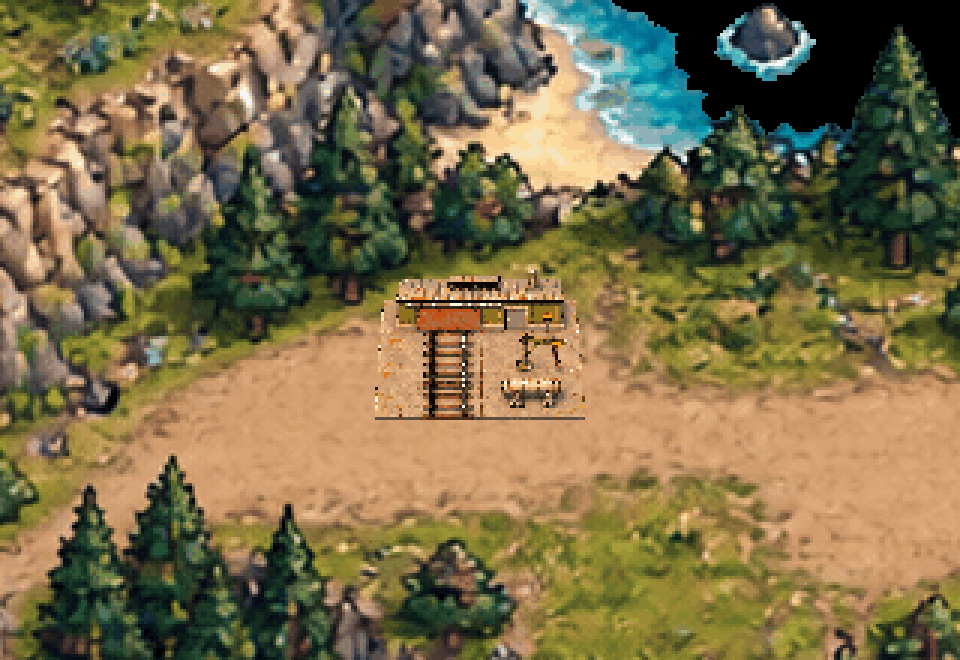
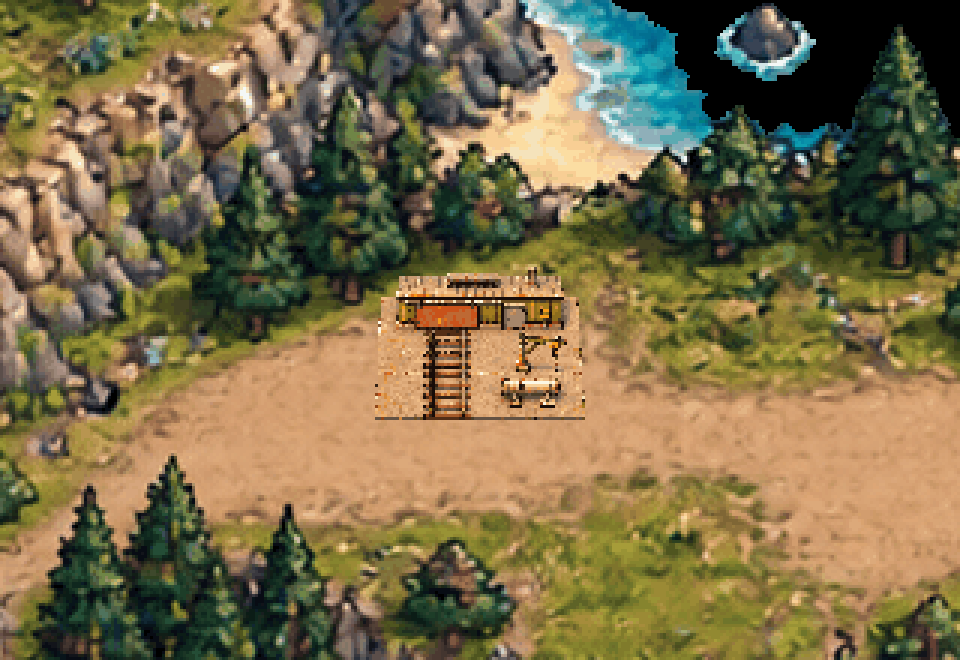
E0: цех по попытке 5 (кромка плиты 0,941 в пороге), терминал остаётся на попытке 4
Попытка 6 терминала отклонена: высокие А-опоры и сине-серая сталь вне палитры E0.

Changed region(s): [[0.375, 0.3939, 0.625, 0.6364]]

diff --git a/art/docs/E0_REWORK_TRACKER_20261107.md b/art/docs/E0_REWORK_TRACKER_20261107.md
@@ -28,8 +28,10 @@
[9 lines of base64/hex data omitted]
 
 ## Что узнано о процессе
@@ -49,7 +51,7 @@
 | ID | Файл `art/gen/placeables/base/…/e0_1978.png` SHA-256 | Runtime-обрезка SHA-256 | Видимая область |
 | --- | --- | --- | --- |
[5 lines of base64/hex data omitted]
 

diff --git a/art/review/e0_rework_20261107/README.md b/art/review/e0_rework_20261107/README.md
@@ -7,7 +7,7 @@
 | Файл | SHA-256 | Дальняя/ближняя кромка плиты (порог 0,94–0,99) | Глубина/ширина (схема) | Отклонения, о которых решает владелец |
 | --- | --- | --- | --- | --- |
[5 lines of base64/hex data omitted]
 
@@ -18,7 +18,8 @@
 | Drive file ID | Имя на Drive | Байт | Роль |
 | --- | --- | --- | --- |
 | `1IbDo3UXGBITJ2x-AVt0vb0BkahXZNTEg` | `BI-CONTROL_E0_1978_rework_a03_d4c1345e.png` | 1965208 | выбран |
-| `1Ky4bMncsvW_soRxmMaoQON03YA6rMK_k` | `BI-FACTORY_E0_1978_rework_a04_5709f4d8.png` | 2017061 | выбран |
+| `1Ky4bMncsvW_soRxmMaoQON03YA6rMK_k` | `BI-FACTORY_E0_1978_rework_a04_5709f4d8.png` | 2017061 | альтернатива |
+| `1TiD5GszpM4x40mVq6k8fY4N2LZjv12M_` | `BI-FACTORY_E0_1978_rework_a05_22bb7036.png` | 1928617 | выбран |
 | `1NMvuczKesq4k5SHO5ASqsC3xCQ6b52hy` | `BI-FACTORY_E0_1978_rework_a02_28de512b.png` | 2414614 | альтернатива |
 | `1PUlSXm5RxWoKjj9rBQ6BfO0BjcBBJuWo` | `B07_E0_1978_rework_a04_dc19d987.png` | 2015184 | выбран |
 | `1qrDYL86Q7YfMWG3h2DJMHDJjeMupgkBj` | `B07_E0_1978_rework_a03_0fdfd21e.png` | 2147333 | альтернатива |
